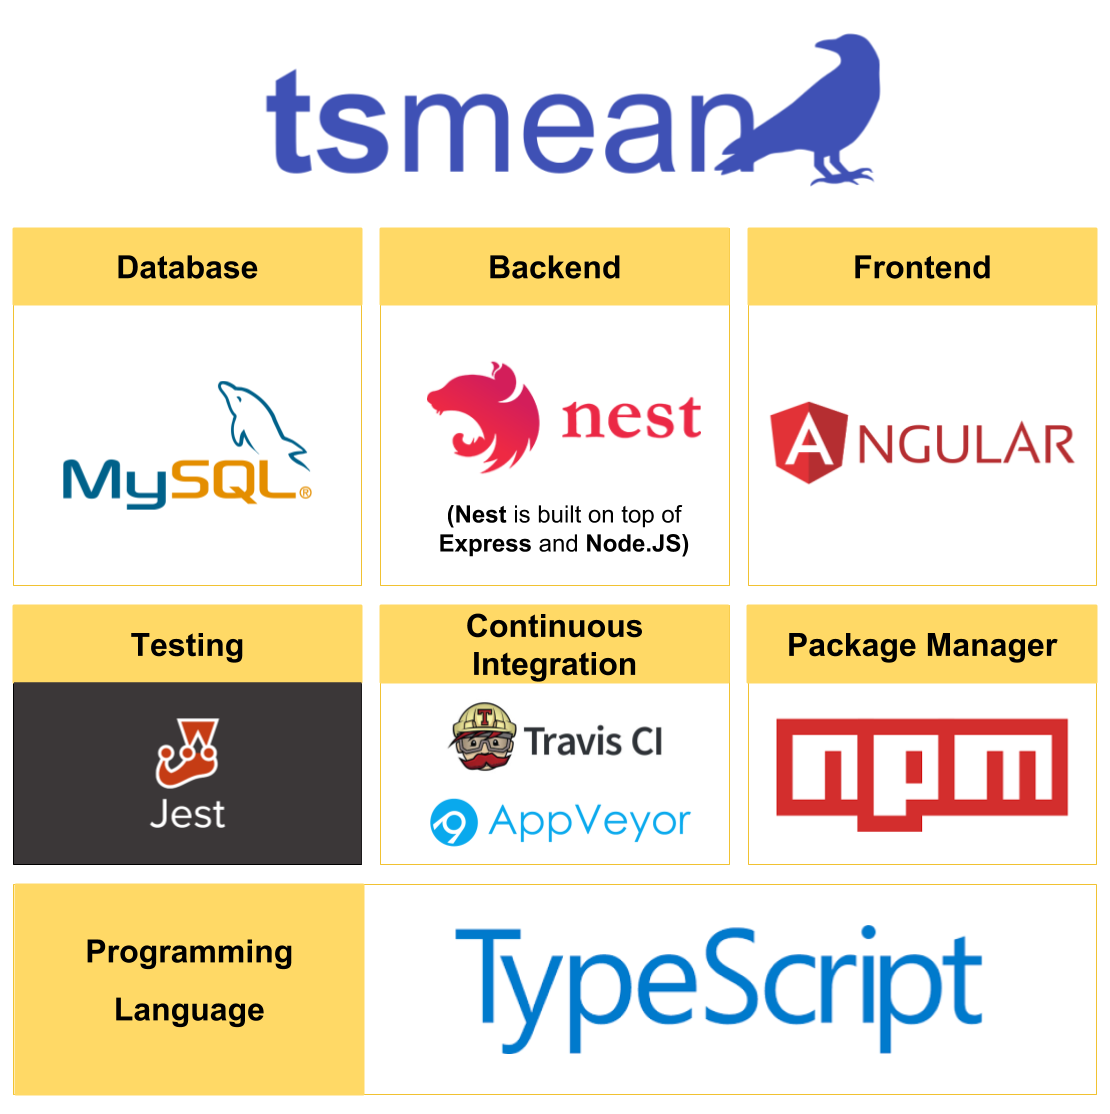
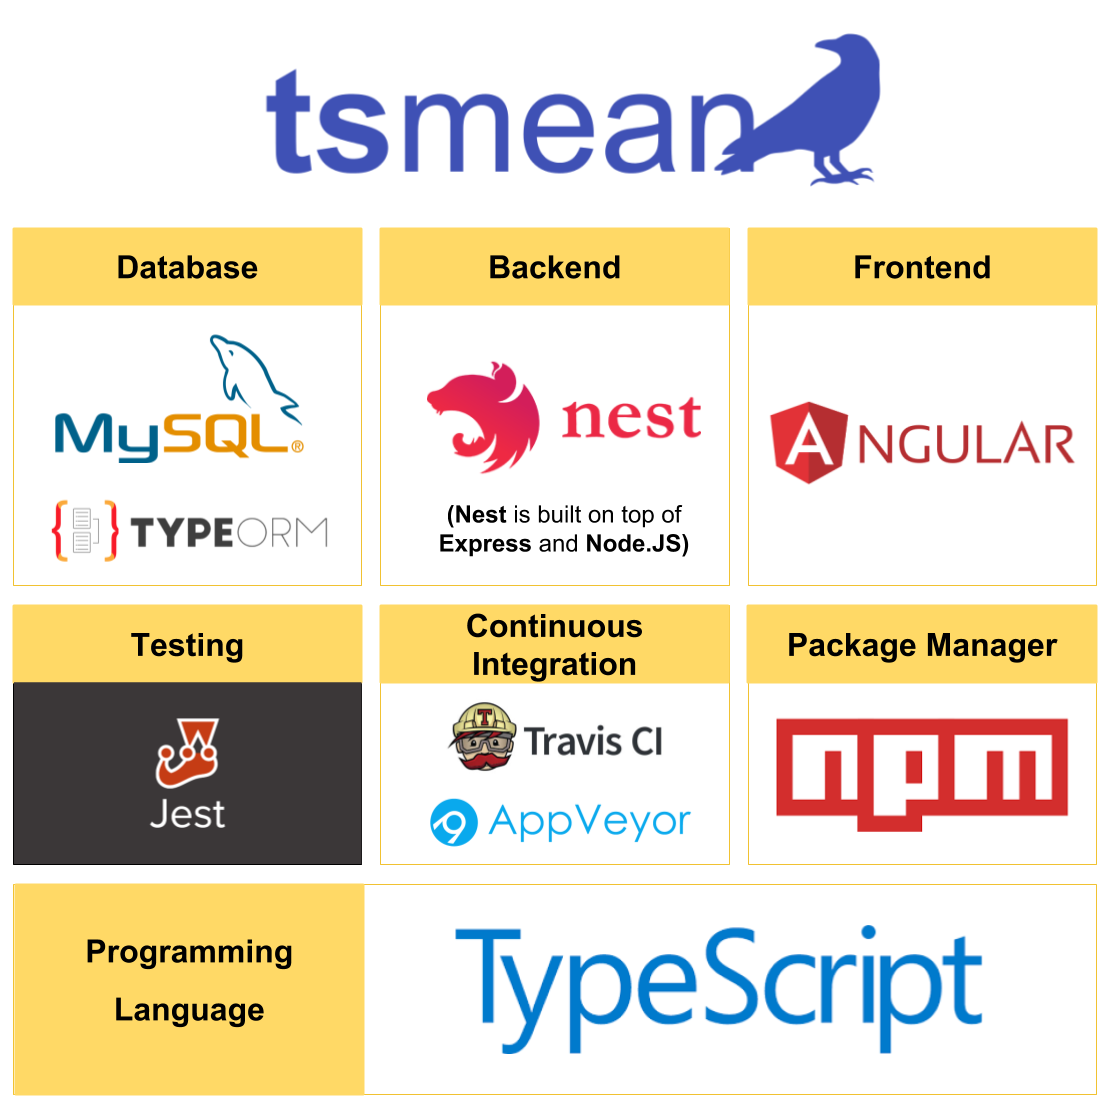
add some stuff

Changed region(s): [[0.0306, 0.3052, 0.2757, 0.5189]]

diff --git a/app/pages/articles/nodejs/how-to-handle-cpu-intensive-tasks-with-node.html b/app/pages/articles/nodejs/how-to-handle-cpu-intensive-tasks-with-node.html
@@ -1,0 +1,73 @@
+<!doctype html>
+<html ⚡ lang="en">
+<head>
+  
+  {{> commonHead}}
+  {{> articleHead}}
+  <title>Handle CPU intensive tasks with Node.js</title>
+  <meta name="description" content="To reduce memory overhead, web servers can be implemented in a non-blocking fashion with Node.js. Since Node.js is single-threaded, there's the question for how to handle CPU intensive tasks.">
+  <meta name="keywords"
+        content="CPU, Node.js, task, worker, web server, node">
+  <link rel="canonical" href="https://www.tsmean.com/articles/nodejs/how-to-handle-cpu-intensive-tasks-with-node" />
+
+</head>
+<body class="landing">
+  
+  {{> analytics}}
+  
+  <a name="top" class="anchor"></a>
+  
+  {{> header}}
+  
+  <div class="jumbo-vertical">
+    <amp-img src="/assets/img/001-cpu.svg"
+             alt="TypeScript Mean Banner"
+             width="150"
+             height="150">
+    </amp-img>
+    <h1 class="jumbo-title">
+      How to handle CPU-intense tasks with Node.js?
+    </h1>
+  
+    <div class="meta-header">
+      Updated: October 2017
+    </div>
+    
+  </div>
+  
+  <article class="flex-auto">
+  
+    <p>
+        When you read about what Node.js is good at it usually goes like this: "Node.js is great for a WebServer. A main part of almost all web-applications is to create, read, update and delete things in the database. Multi-threaded languages have a large memory overhead with this, since e.g. for 1000 requests they create 1000 threads. Since Node.js is single-threaded and non-blocking, you can achieve higher concurrency with the same resources".
+    </p>
+
+    <p>
+        And when you read about what it's bad at it usually goes like this: "Since Node.js is single-threaded, CPU-intensive tasks will block <i>all</i> requests from completing, until the task is completed. Therefore Node.js isn't a good solution for CPU-intense tasks".
+    </p>
+
+    <p>
+        So does that mean, when first designing your new web-application you have to choose between a system that loses a lot of memory due to threads or one that can't run CPU-intense tasks?! Of course it doesn't. For one, Node.js isn't the only option out there allowing for high concurreny. You could for example implement a WebServer in Golang or even implement a non-blocking Java server. But also with Node.js you aren't stuck with only simple create / read / update / delete requests. The solution to this problem is a task queue.
+    </p>
+
+    <p>
+        There are also related StackOverflow and Quora questions:
+        <ul>
+            <li>
+                <a href="https://www.quora.com/How-do-I-handle-CPU-intensive-tasks-in-Node-js">
+                    How do I handle CPU-intensive tasks in Node.js? (on Quora)
+                </a>
+            </li>
+            <li>
+                <a href="https://stackoverflow.com/questions/3491811/node-js-and-cpu-intensive-requests">
+                    Node.js and CPU-intensive requests
+                </a>
+            </li>
+        </ul>
+    </p>
+
+  </article>
+  
+  {{> articleFooter}}
+  
+</body>
+</html>

diff --git a/compile.ts b/compile.ts
@@ -10,6 +10,11 @@ const projectConstants = {
   projectUrl: 'http://amp-project-starter.com'
 };
 
+/**
+ * ATTENTION: The creation is a bit problematic when styles.css is missing.
+ * If you ever need this fixed, consult with the amp-starter-project compile.js file
+ */
+
 
 /**
  * Where the result is saved
@@ -86,10 +91,18 @@ addPagesToDirectory(
   pages
 );
 addPagesToDirectory(
+  'articles/nodejs',
+  ['how-to-handle-cpu-intensive-tasks-with-node'],
+  pages
+)
+
+addPagesToDirectory(
   'orders',
   ['typescript-front-to-back'],
   pages
 );
+
+
 
 
 /**

diff --git a/app/pages/articles/index.html b/app/pages/articles/index.html
@@ -134,6 +134,17 @@
         </a>
       </li>
     </ul>
+    
+    <h3>
+      Node.js
+    </h3>
+    <ul>
+      <li>
+        <a href="nodejs/how-to-handle-cpu-intensive-tasks-with-node">
+          How to handle CPU-intense tasks with a Node.js web server
+        </a>
+      </li>
+    </ul>
   
   </article>
   

diff --git a/app/pages/starter-kit/index.html b/app/pages/starter-kit/index.html
@@ -103,6 +103,10 @@
     <h3>
       Installing the pre-alpha release
     </h3>
+    
+    <p>
+      <b>Note:</b> The prealpha release doesn't use Nest and TypeORM yet.
+    </p>
   
     <p>
       There's a demo of the web app you're getting when downloading the code at

diff --git a/app/pages/index.html b/app/pages/index.html
@@ -56,7 +56,7 @@
       </a>
   
       <p class="jumbo-subtitle">
-        {{> logoWhite}} is the best way to get started with full stack typescript.
+        {{> logoWhite}} is the best way to get started with full stack TypeScript.
       </p>
       
     </div>
